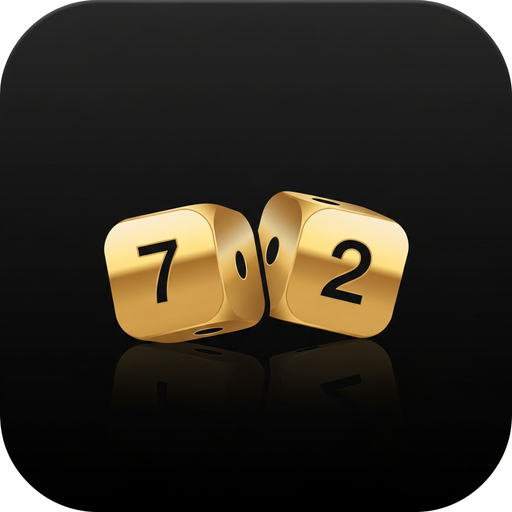
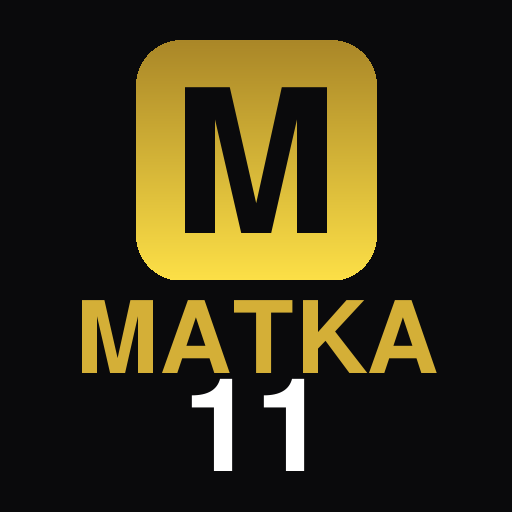
auto-commit for ecd90df7-0fb5-4fc9-9b3e-ec54c41e8f5d

diff --git a/frontend/public/index.html b/frontend/public/index.html
@@ -4,10 +4,10 @@
         <meta charset="utf-8" />
         <meta name="viewport" content="width=device-width, initial-scale=1, maximum-scale=1, user-scalable=no" />
         <meta name="theme-color" content="#0A0A0C" />
-        <meta name="description" content="Satta Matka - Online Betting App" />
+        <meta name="description" content="MATKA 11 - Online Matka Betting App" />
         <meta name="apple-mobile-web-app-capable" content="yes" />
         <meta name="apple-mobile-web-app-status-bar-style" content="black-translucent" />
-        <meta name="apple-mobile-web-app-title" content="Satta Matka" />
+        <meta name="apple-mobile-web-app-title" content="MATKA 11" />
         <link rel="apple-touch-icon" href="%PUBLIC_URL%/icon-192.png" />
         <link rel="manifest" href="%PUBLIC_URL%/manifest.json" />
         <link rel="preconnect" href="https://fonts.googleapis.com" />
@@ -26,7 +26,7 @@
         work correctly both with client-side routing and a non-root public URL.
         Learn how to configure a non-root public URL by running `npm run build`.
         -->
-        <title>Satta Matka</title>
+        <title>MATKA 11</title>
         <script>window.addEventListener("error",function(e){if(e.error instanceof DOMException&&e.error.name==="DataCloneError"&&e.message&&e.message.includes("PerformanceServerTiming")){e.stopImmediatePropagation();e.preventDefault()}},true);</script>
         <style>#emergent-badge,[id*="emergent-badge"],a[href*="emergent.sh"]{display:none!important;visibility:hidden!important;opacity:0!important;pointer-events:none!important;width:0!important;height:0!important;overflow:hidden!important;position:absolute!important;z-index:-9999!important;}</style>
     </head>

diff --git a/memory/PRD.md b/memory/PRD.md
@@ -47,6 +47,7 @@ Build a Satta Matka betting application with Jantri, Haruf Andar/Bahar, Cross Be
 - [x] Warning voice removed (was stuttering on blink) [02-Apr-2026]
 - [x] MATKA 11 logo branding (golden gradient MatkaLogo component) [02-Apr-2026]
 - [x] Responsive app-shell layout (max-width 480px, fits all phone sizes) [02-Apr-2026]
+- [x] PWA icon & manifest MATKA 11 branding (icon-192, icon-512, favicon, title) [02-Apr-2026]
 
 ## Payment Integration
 - Provider: IMB UPI Payment Gateway
@@ -58,8 +59,8 @@ Build a Satta Matka betting application with Jantri, Haruf Andar/Bahar, Cross Be
 
 ## Architecture
 - MatkaLogo component: /app/frontend/src/components/MatkaLogo.js
+- PWA icons: /app/frontend/public/icon-192.png, icon-512.png, favicon.ico
 - app-shell CSS: /app/frontend/src/index.css (max-width: 480px)
-- All pages use app-shell class for consistent mobile layout
 
 ## Upcoming Tasks
 - P1: Refactor server.py (2800+ lines) and AdminPage.js (2000+ lines) into modular files